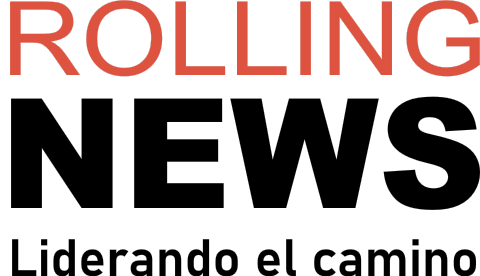
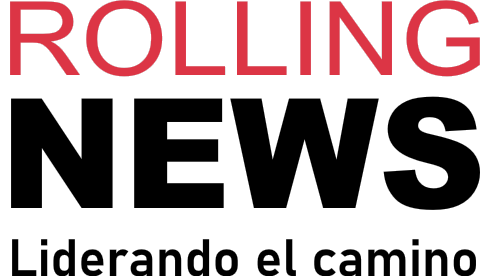
se siguen modificando colores y diseño UI

Changed region(s): [[0.0, 0.0, 0.5938, 0.2899], [0.6875, 0.0, 1.0, 0.2899], [0.625, 0.0, 0.6562, 0.2899]]

diff --git a/src/components/principal/noticiasDestacadas/NoticiaDestacada.js b/src/components/principal/noticiasDestacadas/NoticiaDestacada.js
@@ -1,33 +1,29 @@
-import React, { useState, useEffect } from "react";
+import React from "react";
 import Card from "react-bootstrap/Card";
-import "./NoticiasDestacadas.css";
 
-
-const NoticiaDestacada2 = (props) => {
-
-  console.log(props.noticiasDestacadas)
-  console.log(props.noticiasDestacadas !== undefined ? props.noticiasDestacadas : null)  
-
+const NoticiaDestacada2 = () => {
   return (
-    <div className="col px-md-0 px-lg-0 p-0" style={{height:"400px"}}>
+    <div className="col h-100 px-md-0 px-lg-0 p-0 mb-2">
       <Card className="text-light h-100 m-0 text-md-left text-justify">
         <Card.Body
           className="d-flex p-3 flex-column justify-content-end w-100 h-100 rounded"
           style={{
-            background: `linear-gradient(to bottom, rgba(0,0,0,0.100), rgba(0, 0, 0, 0.600), rgba(0,0,0,0.800)), url(${props.noticiasDestacadas !== undefined ? props.noticiasDestacadas.imgPrincipal : null})`,
+            background:
+              "linear-gradient(to bottom, rgba(0,0,0,0.100), rgba(0, 0, 0, 0.600), rgba(0,0,0,0.800)), url(https://imagenes.elpais.com/resizer/I7qG1O0V4NUbI32a_eYLlZt-m8E=/643x361/cloudfront-eu-central-1.images.arcpublishing.com/prisa/WCJ7V7OXBNAE3N5C6TGZ2XQWXU.jpg)",
             backgroundSize: "100% 100%",
           }}
         >
           <div>
-            <span className="badge badge-primary"><h6 className="m-0">{props.noticiasDestacadas !== undefined ? props.noticiasDestacadas.categoria : null}</h6></span>
+            <span className="badge badge-danger"><h6 className="m-0 text-light">Informacion</h6></span>
           </div>
           <Card.Title>
-            <h2 className="m-0">
-            {props.noticiasDestacadas !== undefined ? props.noticiasDestacadas.titulo : null}
+            <h2 className="m-0 text-light">
+              Tras los enfrentamientos con la Policía, ruralistas esperan
+              señales de la Casa de Gobierno
             </h2>
           </Card.Title>
           <Card.Footer className="p-0">
-            <small className="text-muted">{props.noticiasDestacadas !== undefined ? props.noticiasDestacadas.autor : null} - {props.noticiasDestacadas !== undefined ? props.noticiasDestacadas.fecha : null}</small>
+            <small className="text-muted">La Gaceta - 10/09/2020</small>
           </Card.Footer>
         </Card.Body>
       </Card>

diff --git a/src/components/principal/Login.js b/src/components/principal/Login.js
@@ -5,6 +5,7 @@ import Swal from 'sweetalert2';
 import Container from 'react-bootstrap/Container';
 import Alert from 'react-bootstrap/Alert';
 import { withRouter } from 'react-router-dom';
+import "./Login.css";
 
 
 const Login = (props) => {
@@ -42,26 +43,26 @@ const Login = (props) => {
 
     return (
         <Container>
-            <h1 className="display-3 text-center my-3">Iniciar sesión</h1>
+            <h2 className="text-center mt-5">Iniciar sesión</h2>
             {error ? (<Alert variant={'danger'}>
                 Todos los campos son obligatorios
             </Alert>) : null}
             <Form className="my-4" onSubmit={handleSubmit}>
                 <Form.Group controlId="email">
-                    <Form.Label>Correo electrónico</Form.Label>
+                    <Form.Label className="labels">Correo electrónico</Form.Label>
                     <Form.Control type="email" placeholder="Ingresa tu correo electrónico" onChange={(e) => setEmail(e.target.value)} />
                 </Form.Group>
 
                 <Form.Group controlId="contrasenia">
-                    <Form.Label>Contraseña</Form.Label>
+                    <Form.Label className="labels">Contraseña</Form.Label>
                     <Form.Control type="password" placeholder="Ingresa tu contraseña" onChange={(e) => setContrasenia(e.target.value)} />
                 </Form.Group>
                 <Form.Group controlId="formBasicCheckbox">
                     <Form.Check type="checkbox" label="Recordarme" />
                 </Form.Group>
-                <Button variant="success" type="submit">
+                <Button type="submit">
                     Ingresar
-            </Button>
+                </Button>
             </Form>
         </Container>
     );

diff --git a/src/components/principal/FormSuscripcion.js b/src/components/principal/FormSuscripcion.js
@@ -5,6 +5,7 @@ import Col from "react-bootstrap/Col";
 import Swal from "sweetalert2";
 import Alert from "react-bootstrap/Alert";
 import { withRouter } from "react-router-dom";
+import "./Login.css";
 
 const FormSuscripcion = (props) => {
   const [nombreYApellido, setNombreYApellido] = useState("");
@@ -50,14 +51,14 @@ const FormSuscripcion = (props) => {
 
   return (
     <div className="container">
-      <h1 className="display-3 text-center my-3">Formulario de suscripción</h1>
+      <h2 className="text-center mt-5">Formulario de suscripción</h2>
       {error ? (
         <Alert variant={"danger"}>Todos los campos son obligatorios</Alert>
       ) : null}
       <Form className="my-4" onSubmit={handleSubmit}>
         <Form.Row>
           <Form.Group as={Col} controlId="nombreYApellido">
-            <Form.Label>Nombre completo *</Form.Label>
+            <Form.Label className="labels">Nombre completo *</Form.Label>
             <Form.Control
               type="text"
               placeholder="Ingresa tu apellido y nombre"
@@ -104,7 +105,7 @@ const FormSuscripcion = (props) => {
           </Form.Group>
         </Form.Row>
 
-        <Button variant="success" type="submit">
+        <Button variant="danger" type="submit" className="botonbt">
           Enviar
         </Button>
       </Form>

diff --git a/src/components/commons/Footer.js b/src/components/commons/Footer.js
@@ -14,7 +14,7 @@ import {
 const Footer = () => {
   return (
     <Card className="footer mt-5">
-      <Card.Body className="container-fluid">
+      <Card.Body>
         <div className="row">
           <div className="col-sm-12 col-md-4 col-lg-4 d-flex justify-content-center align-items-center mb-4">
           <img
@@ -22,7 +22,7 @@ const Footer = () => {
             id="logo_text"
           />
           </div>
-          <section className="col-sm-12 col-md-4 col-lg-4 d-flex justify-content-center align-items-center">
+          <section className="col-sm-12 col-md-4 col-lg-4 d-flex justify-content-center align-items-center about">
             <p>
             Somos buscadores de la verdad y contadores de historias.
             Somos testigos de la historia a medida que se desarrolla y explicamos no solo lo que sucedió, sino por qué y lo que significa para usted.
@@ -53,7 +53,7 @@ const Footer = () => {
                 © 2020 Rolling News
               </Nav.Link>
               <Nav.Link href="#" className="col-sm-12 col-md-3 col-lg-3 text-center text-light">
-                Bases Leagles
+                Bases Legales
               </Nav.Link>
               <Nav.Link href="#" className="col-sm-12 col-md-3 col-lg-3 text-center text-light">
                 Politicas de privacidad

diff --git a/src/components/adm-crud/NuevaNoticia.js b/src/components/adm-crud/NuevaNoticia.js
@@ -79,8 +79,8 @@ const NuevaNoticia = (props) => {
 
   return (
     <div className="formularios">
-      <Container className="text-dark py-5 rounded">
-        <h1 className="text-center display-4 pb-5">Nueva noticia</h1>
+      <Container className="text-dark rounded">
+      <h2 className="text-center mb-5">Nueva Noticia</h2>
         <Form onSubmit={handleSubmit} noValidate validated={validated}>
           <Form.Group controlId="tituloNoticia" className="text-center">
             <Form.Label className="formLetraCategoria">
@@ -264,7 +264,7 @@ const NuevaNoticia = (props) => {
             ) : null}
           </div>
           <div className="d-flex justify-content-center">
-            <Button variant="light" type="submit" className="border border-dark">
+            <Button variant="danger" type="submit" className="border border-dark">
               <strong>Enviar Noticia</strong>
             </Button>
           </div>

diff --git a/src/components/adm-crud/NuevaCategoria.js b/src/components/adm-crud/NuevaCategoria.js
@@ -59,8 +59,8 @@ const NuevaCategoria = (props) => {
 
   return (
     <div className="formularios">
-      <Container className="text-dark py-5 rounded">
-        <h1 className="text-center display-4 pb-5">Nueva categoria</h1>
+      <Container className="text-dark rounded">
+      <h2 className="text-center mb-5">Nueva Categoria</h2>
         <Form onSubmit={handleSubmit} noValidate validated={validated}>
           <Form.Group controlId="nombreCategoria" className="text-center">
             <Form.Label className="formLetraCategoria">
@@ -101,7 +101,7 @@ const NuevaCategoria = (props) => {
           </div>
           <div className="d-flex justify-content-center">
             <Button
-              variant="light"
+              variant="danger"
               type="submit"
               className="border border-dark"
             >

diff --git a/src/components/principal/noticiasDestacadas/NoticiaDestacadaSmall.js b/src/components/principal/noticiasDestacadas/NoticiaDestacadaSmall.js
@@ -14,10 +14,10 @@ const NoticiaDestacadaSmall = (props) => {
           }}
         >
           <div>
-            <span className="badge badge-primary">{props.noticiasDestacadas !== undefined ? props.noticiasDestacadas.categoria : null}</span>
+            <span className="badge badge-danger">{props.noticiasDestacadas !== undefined ? props.noticiasDestacadas.categoria : null}</span>
           </div>
           <Card.Title className="m-0">
-            <h5 className="m-0">
+            <h5 className="notdes m-0 text-light">
             {props.noticiasDestacadas !== undefined ? props.noticiasDestacadas.titulo : null}
             </h5>
           </Card.Title>

diff --git a/src/components/commons/Header.js b/src/components/commons/Header.js
@@ -28,8 +28,8 @@ const Header = () => {
         </div>
       </Container>
 
-      <Navbar expand="lg" className="text-light">
-        <Navbar.Toggle aria-controls="basic-navbar-nav" />
+      <Navbar expand="lg" className="d-flex justify-content-center text-light">
+        <Navbar.Toggle aria-controls="basic-navbar-nav"/>
         <Navbar.Collapse id="basic-navbar-nav">
           <Nav className="container d-flex justify-content-between">
             <Nav.Link className="" id="opciones">Actualidad</Nav.Link>
@@ -55,6 +55,7 @@ const Header = () => {
           </Nav>
         </Navbar.Collapse>
       </Navbar>
+      <hr></hr>
     </div>
   );
 };

diff --git a/src/components/principal/CardClima/CardClima.js b/src/components/principal/CardClima/CardClima.js
@@ -49,7 +49,7 @@ const CardClima = () => {
           <h2 className="display-5 text-center text-light" id="hours">...</h2>
           <p className="text-center mb-1" id="date">Cargando...</p>
         </div>
-        <div className="col-4 d-flex flex-column justify-content-around align-items-center">
+        <div className="wheather col-4 d-flex flex-column justify-content-around align-items-center">
           <p className="m-0 mt-2">{located.city}</p>
         </div>
         <div className="wheather col-4 d-flex flex-column justify-content-start align-items-center">

diff --git a/src/components/principal/MonedaApi/MonedaValor.js b/src/components/principal/MonedaApi/MonedaValor.js
@@ -5,7 +5,7 @@ const MonedaValor = (props) => {
   return (
     <div className="d-md-flex flex-column px-2 py-1 col-3 d-none mt-5 mb-3" >
       <div className="border border-dark">
-        <div className="encuadres text-center border-bottom border-dark w-100">
+        <div className="moneda text-center border-bottom border-dark w-100">
           <h5><strong>{props.moneda.nombre}</strong></h5>
         </div>
         <div className="d-flex justify-content-between">

diff --git a/src/components/adm-crud/ListaNoticias.js b/src/components/adm-crud/ListaNoticias.js
@@ -7,7 +7,7 @@ const ListaNoticias = (props) => {
   return (
     <div className="formularios py-5">
       <Container>
-        <h1 className="text-center display-4 mb-5">Lista de noticias</h1>
+      <h2 className="text-center mb-5">Lista de Noticias</h2>
         <CardColumns class="row row-cols-1 row-cols-sm-2 row-cols-lg-3 d-flex justify-content-justify">    
               {props.noticias.map((noticia) => (
                 <CardsNoticias

diff --git a/src/App.css b/src/App.css
@@ -1,7 +1,3 @@
-.formularios{
-    background-color: #E5E5E5;
-}
-
 .formLetraCategoria{
     font-size: 20px;
 }
@@ -16,7 +12,7 @@
     max-height: 100px;
 }
 #logo-header{
-    width: 300px;
+    width: 40%;
 }
 
 .encuadres{
@@ -38,3 +34,14 @@
     opacity: 0.6;
 }
 
+.moneda{
+    background-color: black;
+}
+
+.moneda h5{
+    color: whitesmoke;
+}
+
+.botonbt{
+    font-weight: bold;
+}
